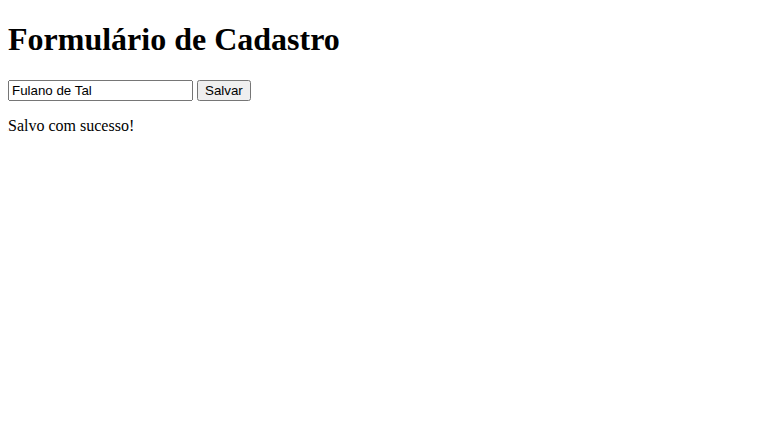
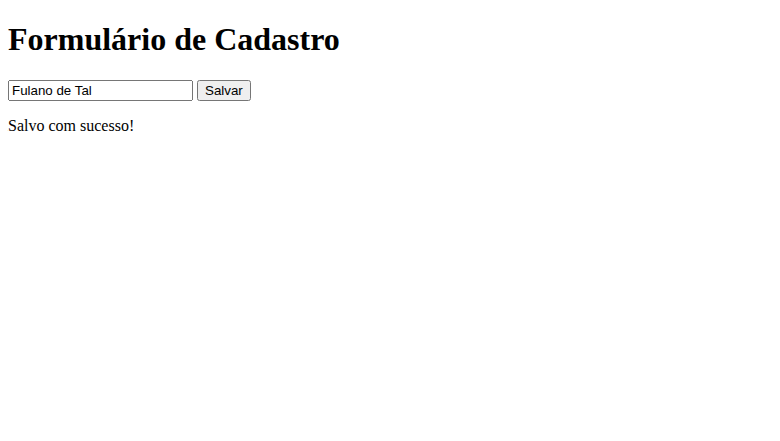
Adiciona opcao de modo claro ou escuro no navegador
Permite especificar 'modo: claro' ou 'modo: escuro' nos passos dos
cenarios de navegacao, definindo o modo claro como padrao.

Changed region(s): [[0.0, 0.0595, 0.4308, 0.119], [0.0, 0.1785, 0.3077, 0.238], [0.0, 0.2677, 0.1846, 0.2975]]

diff --git a/testes/exemplos/exemplo.html b/testes/exemplos/exemplo.html
@@ -11,6 +11,12 @@
             text-align: center;
             padding: 50px;
         }
+        @media (prefers-color-scheme: dark) {
+            body {
+                background-color: #121212;
+                color: #ffffff;
+            }
+        }
         h1 {
             color: #0056b3;
         }

diff --git a/fonte/execucao/navegação.rs b/fonte/execucao/navegação.rs
@@ -38,8 +38,16 @@ pub fn testar_navegador(
 
     let mut telas = BTreeMap::new();
 
+    let chrome_bin = if std::path::Path::new("/usr/bin/chromium-browser").exists() {
+        "chromium-browser"
+    } else if std::path::Path::new("/usr/bin/google-chrome").exists() {
+        "/usr/bin/google-chrome"
+    } else {
+        "chromium-browser"
+    };
+
     let options = headless_chrome::LaunchOptions::default_builder()
-        .path(Some(std::path::PathBuf::from("chromium-browser")))
+        .path(Some(std::path::PathBuf::from(chrome_bin)))
         .port(Some(0))
         .args(vec![
             std::ffi::OsStr::new("--no-sandbox"),
@@ -70,9 +78,35 @@ pub fn testar_navegador(
         }
     };
 
+    fn aplicar_modo(tab: &headless_chrome::Tab, modo: &str) {
+        let value = match modo.to_lowercase().as_str() {
+            "escuro" | "dark" => "dark",
+            "claro" | "light" => "light",
+            _ => "light",
+        };
+        let _ = tab.call_method(
+            headless_chrome::protocol::cdp::Emulation::SetEmulatedMedia {
+                media: None,
+                features: Some(vec![
+                    headless_chrome::protocol::cdp::Emulation::MediaFeature {
+                        name: "prefers-color-scheme".to_string(),
+                        value: value.to_string(),
+                    },
+                ]),
+            },
+        );
+    }
+
+    // O padrão deve ser o modo claro
+    aplicar_modo(&tab, "claro");
+
     let cur_dir = std::env::current_dir().unwrap_or_default();
 
     for passo in &cenario_navegador.navegação {
+        if let Some(m) = &passo.modo {
+            aplicar_modo(&tab, m);
+        }
+
         if let Some(endereço) = &passo.navegar_para {
             let url = if let Some(cfg) = config {
                 if let Some(base) = &cfg.url_base {

diff --git a/fonte/markdown.rs b/fonte/markdown.rs
@@ -25,6 +25,9 @@ pub fn parse_markdown(content: &str) -> Result<Vec<Cenario>, String> {
                     if let Some(val) = map.get("navegar para") {
                         passo.navegar_para = Some(val.as_str().unwrap_or("").to_string());
                         is_navegador = true;
+                    } else if let Some(val) = map.get("modo") {
+                        passo.modo = Some(val.as_str().unwrap_or("").to_string());
+                        is_navegador = true;
                     } else if let Some(val) = map.get("enviar formulário") {
                         if let Some(mapping) = val.as_mapping() {
                             let mut form = HashMap::new();

diff --git a/fonte/modelos.rs b/fonte/modelos.rs
@@ -61,6 +61,9 @@ pub struct PassoNavegacao {
     #[serde(default, rename = "capturar tela")]
     pub capturar_tela: Option<String>,
 
+    #[serde(default, rename = "modo")]
+    pub modo: Option<String>,
+
     #[serde(default, rename = "hash esperado")]
     pub hash_esperado: Option<String>,
 

diff --git a/testes/envio-formulário.md b/testes/envio-formulário.md
@@ -10,7 +10,7 @@ O primeiro passo do cenário consiste em acessar a página do formulário, preen
 ```
 
 ![Tela de formulário salvo](./telas/formulário-salvo.png)
-<!-- d58622db523176c9 -->
+<!-- af2631dc12c3dc67 -->
 
 Após a inserção, o teste verifica a leitura dos dados. Para isso, navegamos para a página de exibição e aguardamos a conclusão do carregamento para confirmar que os dados do IndexedDB foram renderizados com sucesso na tela.
 
@@ -20,4 +20,4 @@ Após a inserção, o teste verifica a leitura dos dados. Para isso, navegamos p
 ```
 
 ![Tela de dados exibidos](./telas/exibição-dados.png)
-<!-- 6df26ce68441e84a -->
+<!-- c4b680831d8761cc -->

diff --git a/README.md b/README.md
@@ -37,6 +37,7 @@ Os testes devem ser criados em arquivos `.yaml` dentro do diretório `./testes/`
 - `navegação`: Lista de passos para testes no navegador. Atualmente, os passos podem conter:
   - `navegar para`: A URL da página para acessar.
   - `capturar tela`: O nome do arquivo PNG a ser salvo em `testes/telas/`.
+  - `modo`: O modo de preferência de esquema de cores do navegador (`claro` ou `escuro`). O padrão é o modo claro (`claro`).
 
 ## Execução Externa
 

diff --git a/testes/acesso-site-exemplo.md b/testes/acesso-site-exemplo.md
@@ -7,4 +7,4 @@ Cenário básico para testar o acesso à página principal de exemplo.
 ```
 
 ![Tela de exemplo](./telas/exemplo.png)
-<!-- 5b0203a176fc9e70 -->
+<!-- 2c1aa09c0779fbfc -->
